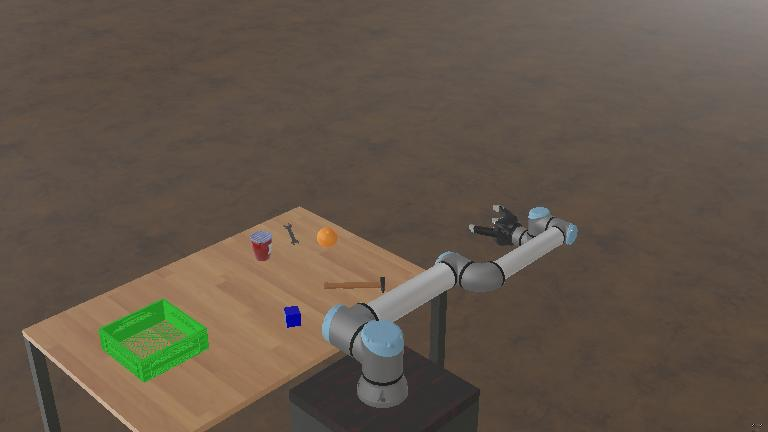
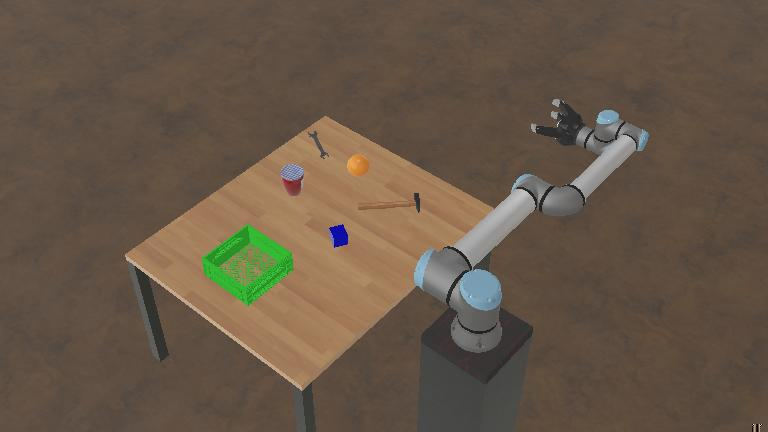
feat: refactor camera setup and control to support multiple camera configurations

diff --git a/controllers/vla_controller/vla_controller.py b/controllers/vla_controller/vla_controller.py
@@ -14,7 +14,7 @@ from utils.VLA import ACTION
 # from utils.TEST import LOG_BASELINE 
 
 from config import (
-    PERSPECTIVE_RECEIVER, SIM_TABLE_DEF,
+    CAM2_RECEIVER, SIM_TABLE_DEF, CAM1_RECEIVER,
     GET_RECEIVER_BASE64_IMAGE, INFERENCE_EVERY_N, VLA_USER_PROMPTS
 )
 
@@ -22,7 +22,8 @@ supervisor = Supervisor()
 timestep = int(supervisor.getBasicTimeStep())
 robot = UR10e_Robot(supervisor)
 
-receiver = supervisor.getDevice(PERSPECTIVE_RECEIVER)
+# receiver = supervisor.getDevice(CAM2_RECEIVER)
+receiver = supervisor.getDevice(CAM1_RECEIVER)
 receiver.enable(timestep)
 
 table_node = supervisor.getFromDef(SIM_TABLE_DEF)
@@ -51,7 +52,8 @@ while supervisor.step(timestep) != -1:
     if not img: continue
 
     # Call the VLA Brain
-    action = ACTION(img, VLA_USER_PROMPTS["baseline"])
+    # action = ACTION(img, VLA_USER_PROMPTS["baseline"])
+    action = ACTION(img, "pick up the orange ball")
     
     if action is None:
         print("[System] Waiting for Brain...")
@@ -69,18 +71,21 @@ while supervisor.step(timestep) != -1:
     # ---------------------------------------------------------
     # CALIBRATION OFFSETS (Sim-to-AI Translation)
     # ---------------------------------------------------------
-    # AI_ORIGIN is where the AI "thinks" its 0,0,0 coordinate is in Webots.
-    # You will likely need to tweak these numbers slightly!
-    AI_ORIGIN_X = float(table_pos[0])
-    AI_ORIGIN_Y = float(table_pos[1])
+    robot_pos = robot.robot_node.getPosition()
     
-    # If dz is around -0.45 when it should be touching the table,
-    # then the AI's origin is about 45cm ABOVE the table.
-    AI_ORIGIN_Z = TABLE_HEIGHT + 0.45 
+    # 1. Align the AI's 0,0 center to the Webots Robot Base, NOT the table.
+    AI_ORIGIN_X = float(robot_pos[0])
+    AI_ORIGIN_Y = float(robot_pos[1])
+    
+    # 2. Fix the Table Crash
+    # The AI reaches down to about -0.80 when it thinks it is touching the table.
+    # Therefore, the AI's "Shoulder" must be exactly 80cm above the table.
+    # We add 0.02 (2cm) as a safety hover buffer so it doesn't scrape the wood.
+    AI_ORIGIN_Z = TABLE_HEIGHT + 0.82 
 
     # Translate local AI target to global Webots target
-    target_x = AI_ORIGIN_X + dx
-    target_y = AI_ORIGIN_Y + dy
+    target_x = AI_ORIGIN_X + dy
+    target_y = AI_ORIGIN_Y - dx
     target_z = AI_ORIGIN_Z + dz
 
     # Command the physical body

diff --git a/controllers/vlm_ood/vlm_ood.py b/controllers/vlm_ood/vlm_ood.py
@@ -14,7 +14,7 @@ from utils.VLM import ASK
 from utils.TEST import LOG_OOD
 
 from config import (
-    OVERHEAD_CAM_DEF, OVERHEAD_RECEIVER, SIM_TABLE_DEF, GET_RECEIVER_BASE64_IMAGE,
+    CAM1_DEF, CAM1_RECEIVER, SIM_TABLE_DEF, GET_RECEIVER_BASE64_IMAGE,
     VLM_USER_PROMPTS, GRIPPER_TARGET_HOVER_HEIGHT, GRIPPER_LIFT_HEIGHT, PIXEL_TO_WORLD
 )
 
@@ -22,10 +22,10 @@ supervisor = Supervisor()
 timestep = int(supervisor.getBasicTimeStep())
 robot = UR10e_Robot(supervisor)
 
-receiver = supervisor.getDevice(OVERHEAD_RECEIVER)
+receiver = supervisor.getDevice(CAM1_RECEIVER)
 receiver.enable(timestep)
 
-cam_node = supervisor.getFromDef(OVERHEAD_CAM_DEF)
+cam_node = supervisor.getFromDef(CAM1_DEF)
 CAM_WIDTH, CAM_HEIGHT = cam_node.getField("width").getSFInt32(), cam_node.getField("height").getSFInt32()
 CAM_X, CAM_Y, CAM_Z = cam_node.getParentNode().getPosition()
 CAM_FOV = cam_node.getField("fieldOfView").getSFFloat()

diff --git a/controllers/vlm_nudge/vlm_nudge.py b/controllers/vlm_nudge/vlm_nudge.py
@@ -15,8 +15,8 @@ from utils.VLM import ASK
 from utils.TEST import AUTOMATE_NUDGE, LOG_NUDGE_METRICS
 
 from config import (
-    OVERHEAD_CAM_DEF, 
-    OVERHEAD_RECEIVER, 
+    CAM1_DEF, 
+    CAM1_RECEIVER, 
     SIM_TABLE_DEF, 
     GET_RECEIVER_BASE64_IMAGE,
     VLM_USER_PROMPTS,
@@ -32,10 +32,10 @@ supervisor = Supervisor()
 timestep = int(supervisor.getBasicTimeStep())
 robot = UR10e_Robot(supervisor)
 
-receiver = supervisor.getDevice(OVERHEAD_RECEIVER)
+receiver = supervisor.getDevice(CAM1_RECEIVER)
 receiver.enable(timestep)
 
-cam_node = supervisor.getFromDef(OVERHEAD_CAM_DEF)
+cam_node = supervisor.getFromDef(CAM1_DEF)
 CAM_WIDTH = cam_node.getField("width").getSFInt32()
 CAM_HEIGHT = cam_node.getField("height").getSFInt32()
 CAM_FOV = cam_node.getField("fieldOfView").getSFFloat()

diff --git a/config.py b/config.py
@@ -5,14 +5,14 @@ from dotenv import load_dotenv
 load_dotenv(os.path.join(os.path.dirname(__file__), ".env"))
 
 # world parameters
-OVERHEAD_CAM_NAME, OVERHEAD_CAM_DEF= "overhead_camera", "OVERHEAD_CAMERA" # overhead camera node
-PERSPECTIVE_CAM_NAME, PERSPECTIVE_CAM_DEF = "perspective_camera", "PERSPECTIVE_CAMERA" # angled camera node
+CAM1_NAME, CAM1_DEF= "cam1", "CAM1" # overhead camera node
+CAM2_NAME, CAM2_DEF = "cam2", "CAM2" # angled side camera node
 
-OVERHEAD_EMITTER = "overhead_emitter"
-OVERHEAD_RECEIVER = "overhead_receiver"
+CAM1_EMITTER = "cam1_emitter"
+CAM1_RECEIVER = "cam1_receiver"
 
-PERSPECTIVE_EMITTER = "perspective_emitter"
-PERSPECTIVE_RECEIVER = "perspective_receiver"
+CAM2_EMITTER = "cam2_emitter"
+CAM2_RECEIVER = "cam2_receiver"
 
 SIM_TABLE_DEF = "SIM_TABLE"
 

diff --git a/controllers/vlm_controller/vlm_controller.py b/controllers/vlm_controller/vlm_controller.py
@@ -15,8 +15,8 @@ from utils.VLM import ASK
 from utils.TEST import LOG_BASELINE
 
 from config import (
-    OVERHEAD_CAM_DEF, 
-    OVERHEAD_RECEIVER, 
+    CAM1_DEF, 
+    CAM1_RECEIVER, 
     SIM_TABLE_DEF, 
     GET_RECEIVER_BASE64_IMAGE,
     VLM_USER_PROMPTS,
@@ -30,10 +30,10 @@ supervisor = Supervisor()
 timestep = int(supervisor.getBasicTimeStep())
 robot = UR10e_Robot(supervisor)
 
-receiver = supervisor.getDevice(OVERHEAD_RECEIVER)
+receiver = supervisor.getDevice(CAM1_RECEIVER)
 receiver.enable(timestep)
 
-cam_node = supervisor.getFromDef(OVERHEAD_CAM_DEF)
+cam_node = supervisor.getFromDef(CAM1_DEF)
 CAM_WIDTH = cam_node.getField("width").getSFInt32()
 CAM_HEIGHT = cam_node.getField("height").getSFInt32()
 CAM_FOV = cam_node.getField("fieldOfView").getSFFloat()

diff --git a/controllers/cam1_controller/cam1_controller.py b/controllers/cam1_controller/cam1_controller.py
@@ -5,16 +5,16 @@ sys.path.append(os.path.abspath(os.path.join(os.path.dirname(__file__), "../../"
 from controller import Robot
 import cv2
 import numpy as np
-from config import  PERSPECTIVE_EMITTER, PERSPECTIVE_CAM_NAME
+from config import CAM1_EMITTER, CAM1_NAME
 
 robot = Robot()
 timestep = int(robot.getBasicTimeStep())
 
-camera = robot.getDevice(PERSPECTIVE_CAM_NAME)
+camera = robot.getDevice(CAM1_NAME)
 camera.enable(timestep)
 
 # initialize emitter
-emitter = robot.getDevice(PERSPECTIVE_EMITTER)
+emitter = robot.getDevice(CAM1_EMITTER)
 
 print(f"[Camera] Emitter initialized with channel: {emitter.getChannel()}")
 

diff --git a/controllers/cam2_controller/cam2_controller.py b/controllers/cam2_controller/cam2_controller.py
@@ -5,16 +5,16 @@ sys.path.append(os.path.abspath(os.path.join(os.path.dirname(__file__), "../../"
 from controller import Robot
 import cv2
 import numpy as np
-from config import OVERHEAD_EMITTER, OVERHEAD_CAM_NAME
+from config import  CAM2_EMITTER, CAM2_NAME
 
 robot = Robot()
 timestep = int(robot.getBasicTimeStep())
 
-camera = robot.getDevice(OVERHEAD_CAM_NAME)
+camera = robot.getDevice(CAM2_NAME)
 camera.enable(timestep)
 
 # initialize emitter
-emitter = robot.getDevice(OVERHEAD_EMITTER)
+emitter = robot.getDevice(CAM2_EMITTER)
 
 print(f"[Camera] Emitter initialized with channel: {emitter.getChannel()}")
 

diff --git a/controllers/vla_nudge/vla_nudge.py b/controllers/vla_nudge/vla_nudge.py
@@ -14,7 +14,7 @@ from utils.VLA import ACTION
 from utils.TEST import AUTOMATE_NUDGE, LOG_NUDGE_METRICS
 
 from config import (
-    PERSPECTIVE_RECEIVER, SIM_TABLE_DEF, VLA_USER_PROMPTS,
+    CAM2_RECEIVER, SIM_TABLE_DEF, VLA_USER_PROMPTS,
     GET_RECEIVER_BASE64_IMAGE, INFERENCE_EVERY_N, TARGET_NUDGES
 )
 
@@ -22,7 +22,7 @@ supervisor = Supervisor()
 timestep = int(supervisor.getBasicTimeStep())
 robot = UR10e_Robot(supervisor)
 
-receiver = supervisor.getDevice(PERSPECTIVE_RECEIVER)
+receiver = supervisor.getDevice(CAM2_RECEIVER)
 receiver.enable(timestep)
 
 table_node = supervisor.getFromDef(SIM_TABLE_DEF)

diff --git a/controllers/vla_ood/vla_ood.py b/controllers/vla_ood/vla_ood.py
@@ -14,7 +14,7 @@ from utils.VLA import ACTION
 from utils.TEST import LOG_OOD
 
 from config import (
-    PERSPECTIVE_RECEIVER, SIM_TABLE_DEF, VLA_USER_PROMPTS,
+    CAM2_RECEIVER, SIM_TABLE_DEF, VLA_USER_PROMPTS,
     GET_RECEIVER_BASE64_IMAGE, INFERENCE_EVERY_N
 )
 
@@ -22,7 +22,7 @@ supervisor = Supervisor()
 timestep = int(supervisor.getBasicTimeStep())
 robot = UR10e_Robot(supervisor)
 
-receiver = supervisor.getDevice(PERSPECTIVE_RECEIVER)
+receiver = supervisor.getDevice(CAM2_RECEIVER)
 receiver.enable(timestep)
 
 table_node = supervisor.getFromDef(SIM_TABLE_DEF)
